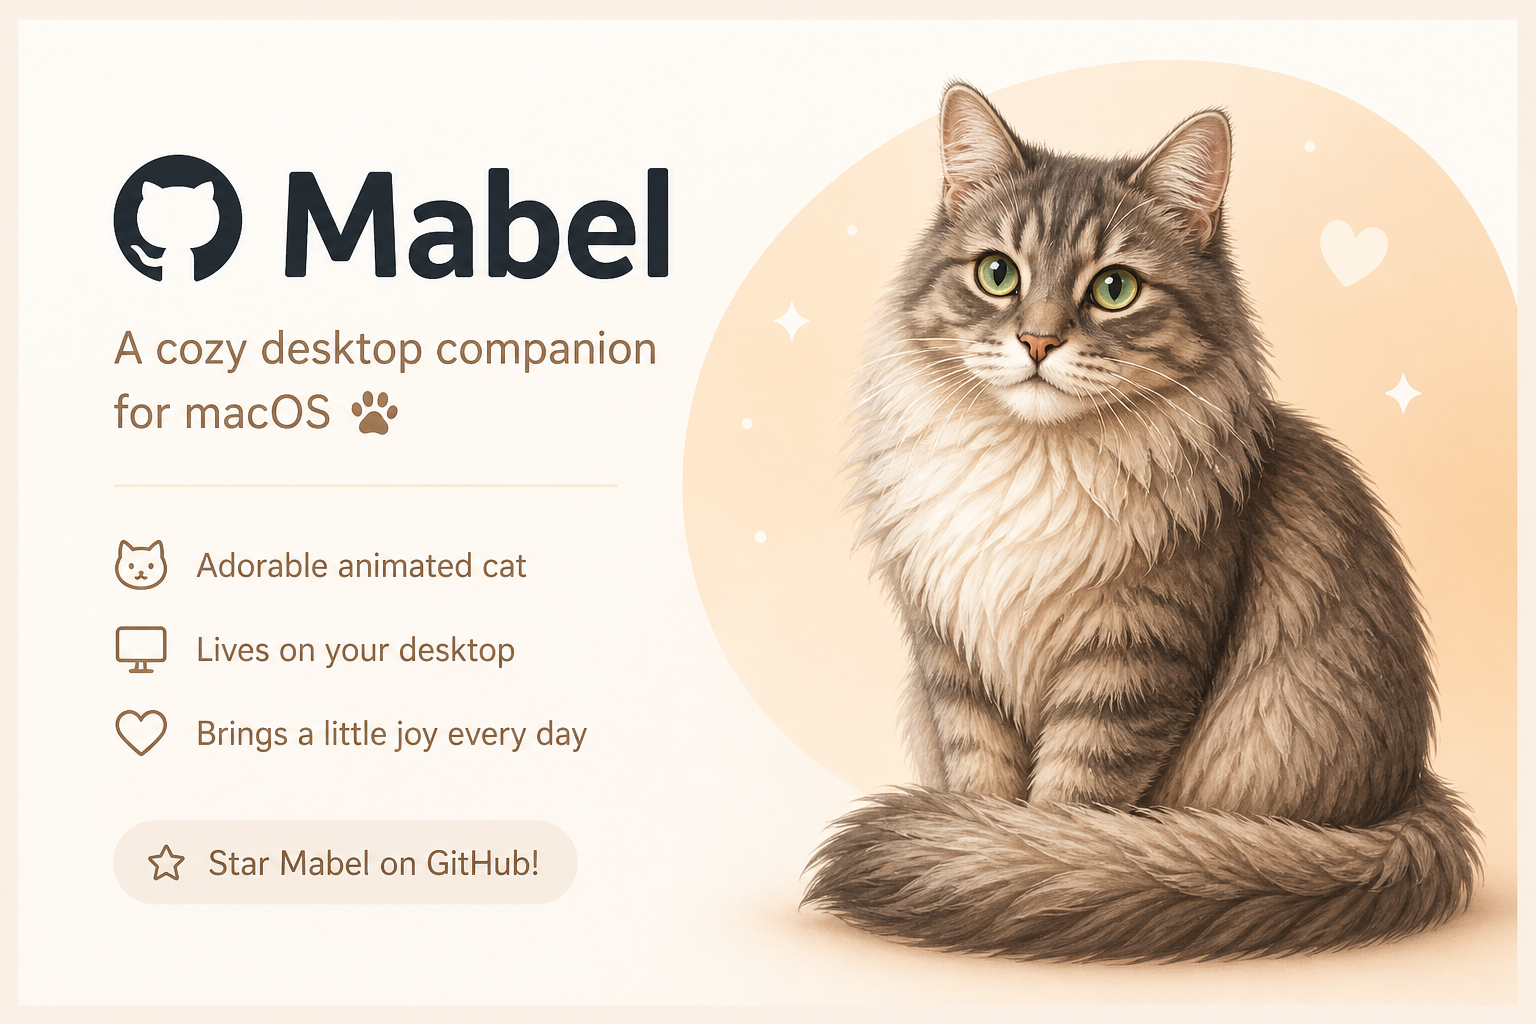
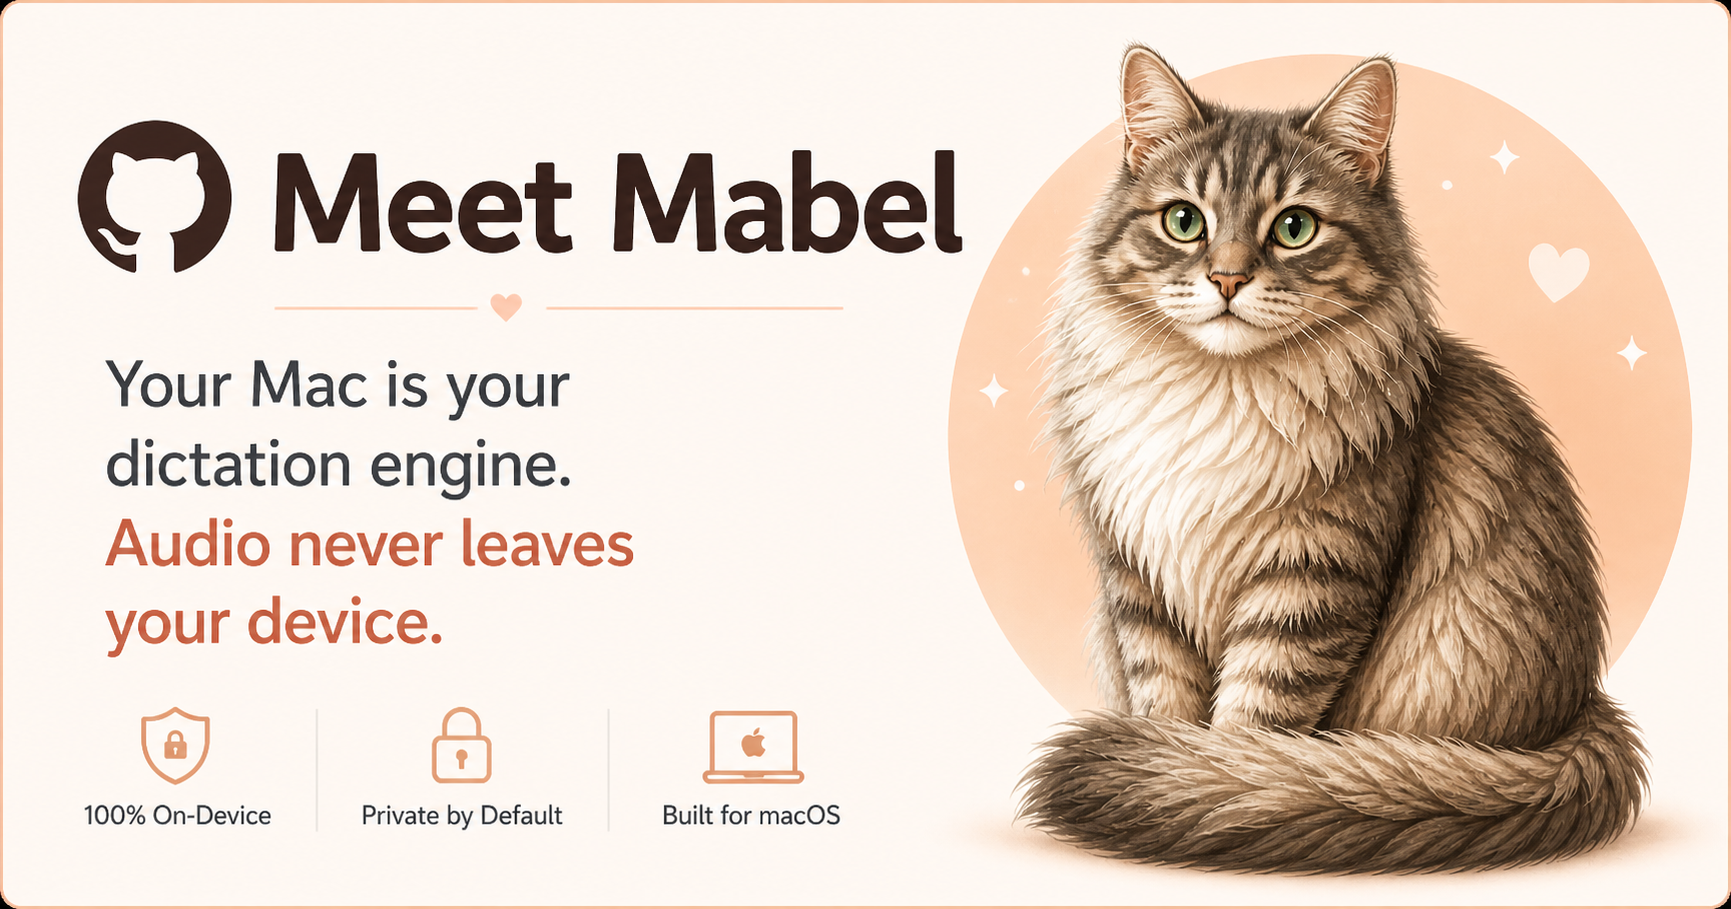
chore: bump dev_erick to 1.1.3-dev, seed changelog placeholder
main now points at v1.1.2 (shipped). dev_erick advances to 1.1.3-dev so
title bars on dev builds clearly show "not shipped" and any test installer
can't be confused with a release. Per the always-update-changelog rule, the
v1.1.3 entry is seeded with placeholders that get filled in as features
land — a non-empty entry is required before tagging.

diff --git a/docs/whatsnew.md b/docs/whatsnew.md
@@ -2,6 +2,14 @@
 
 The in-app first-launch popup (F10, not yet built) reads from this file. Every Mabel release MUST add an entry here. Newest version on top.
 
+## v1.1.3 (UNRELEASED)
+
+### New
+- _(work in progress — entries get added as features land)_
+
+### Fixed
+- _(work in progress)_
+
 ## v1.1.2 (2026-05-01)
 
 ### Fixed